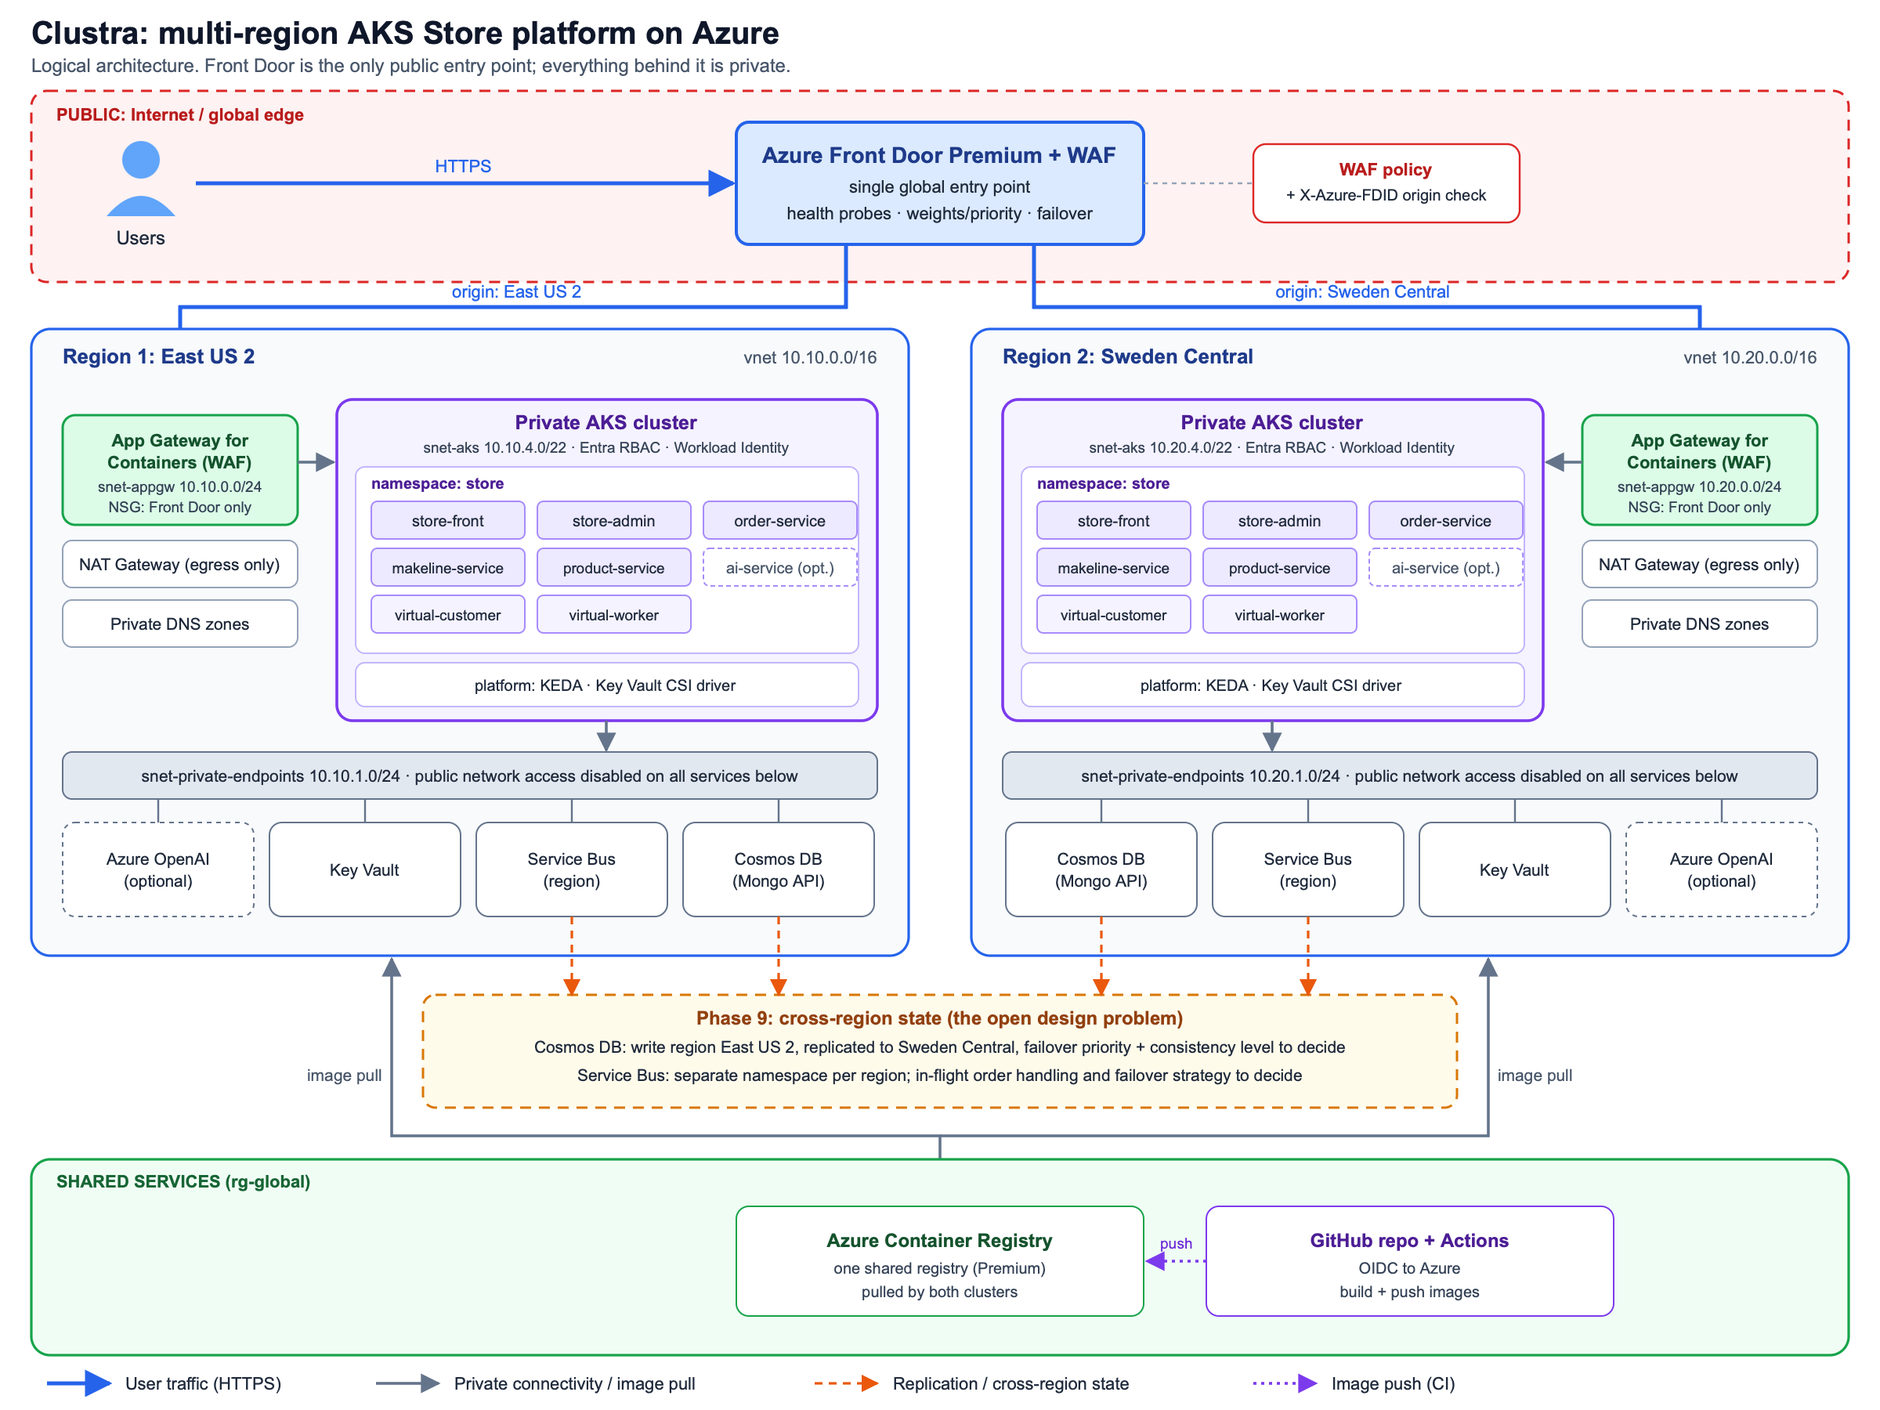
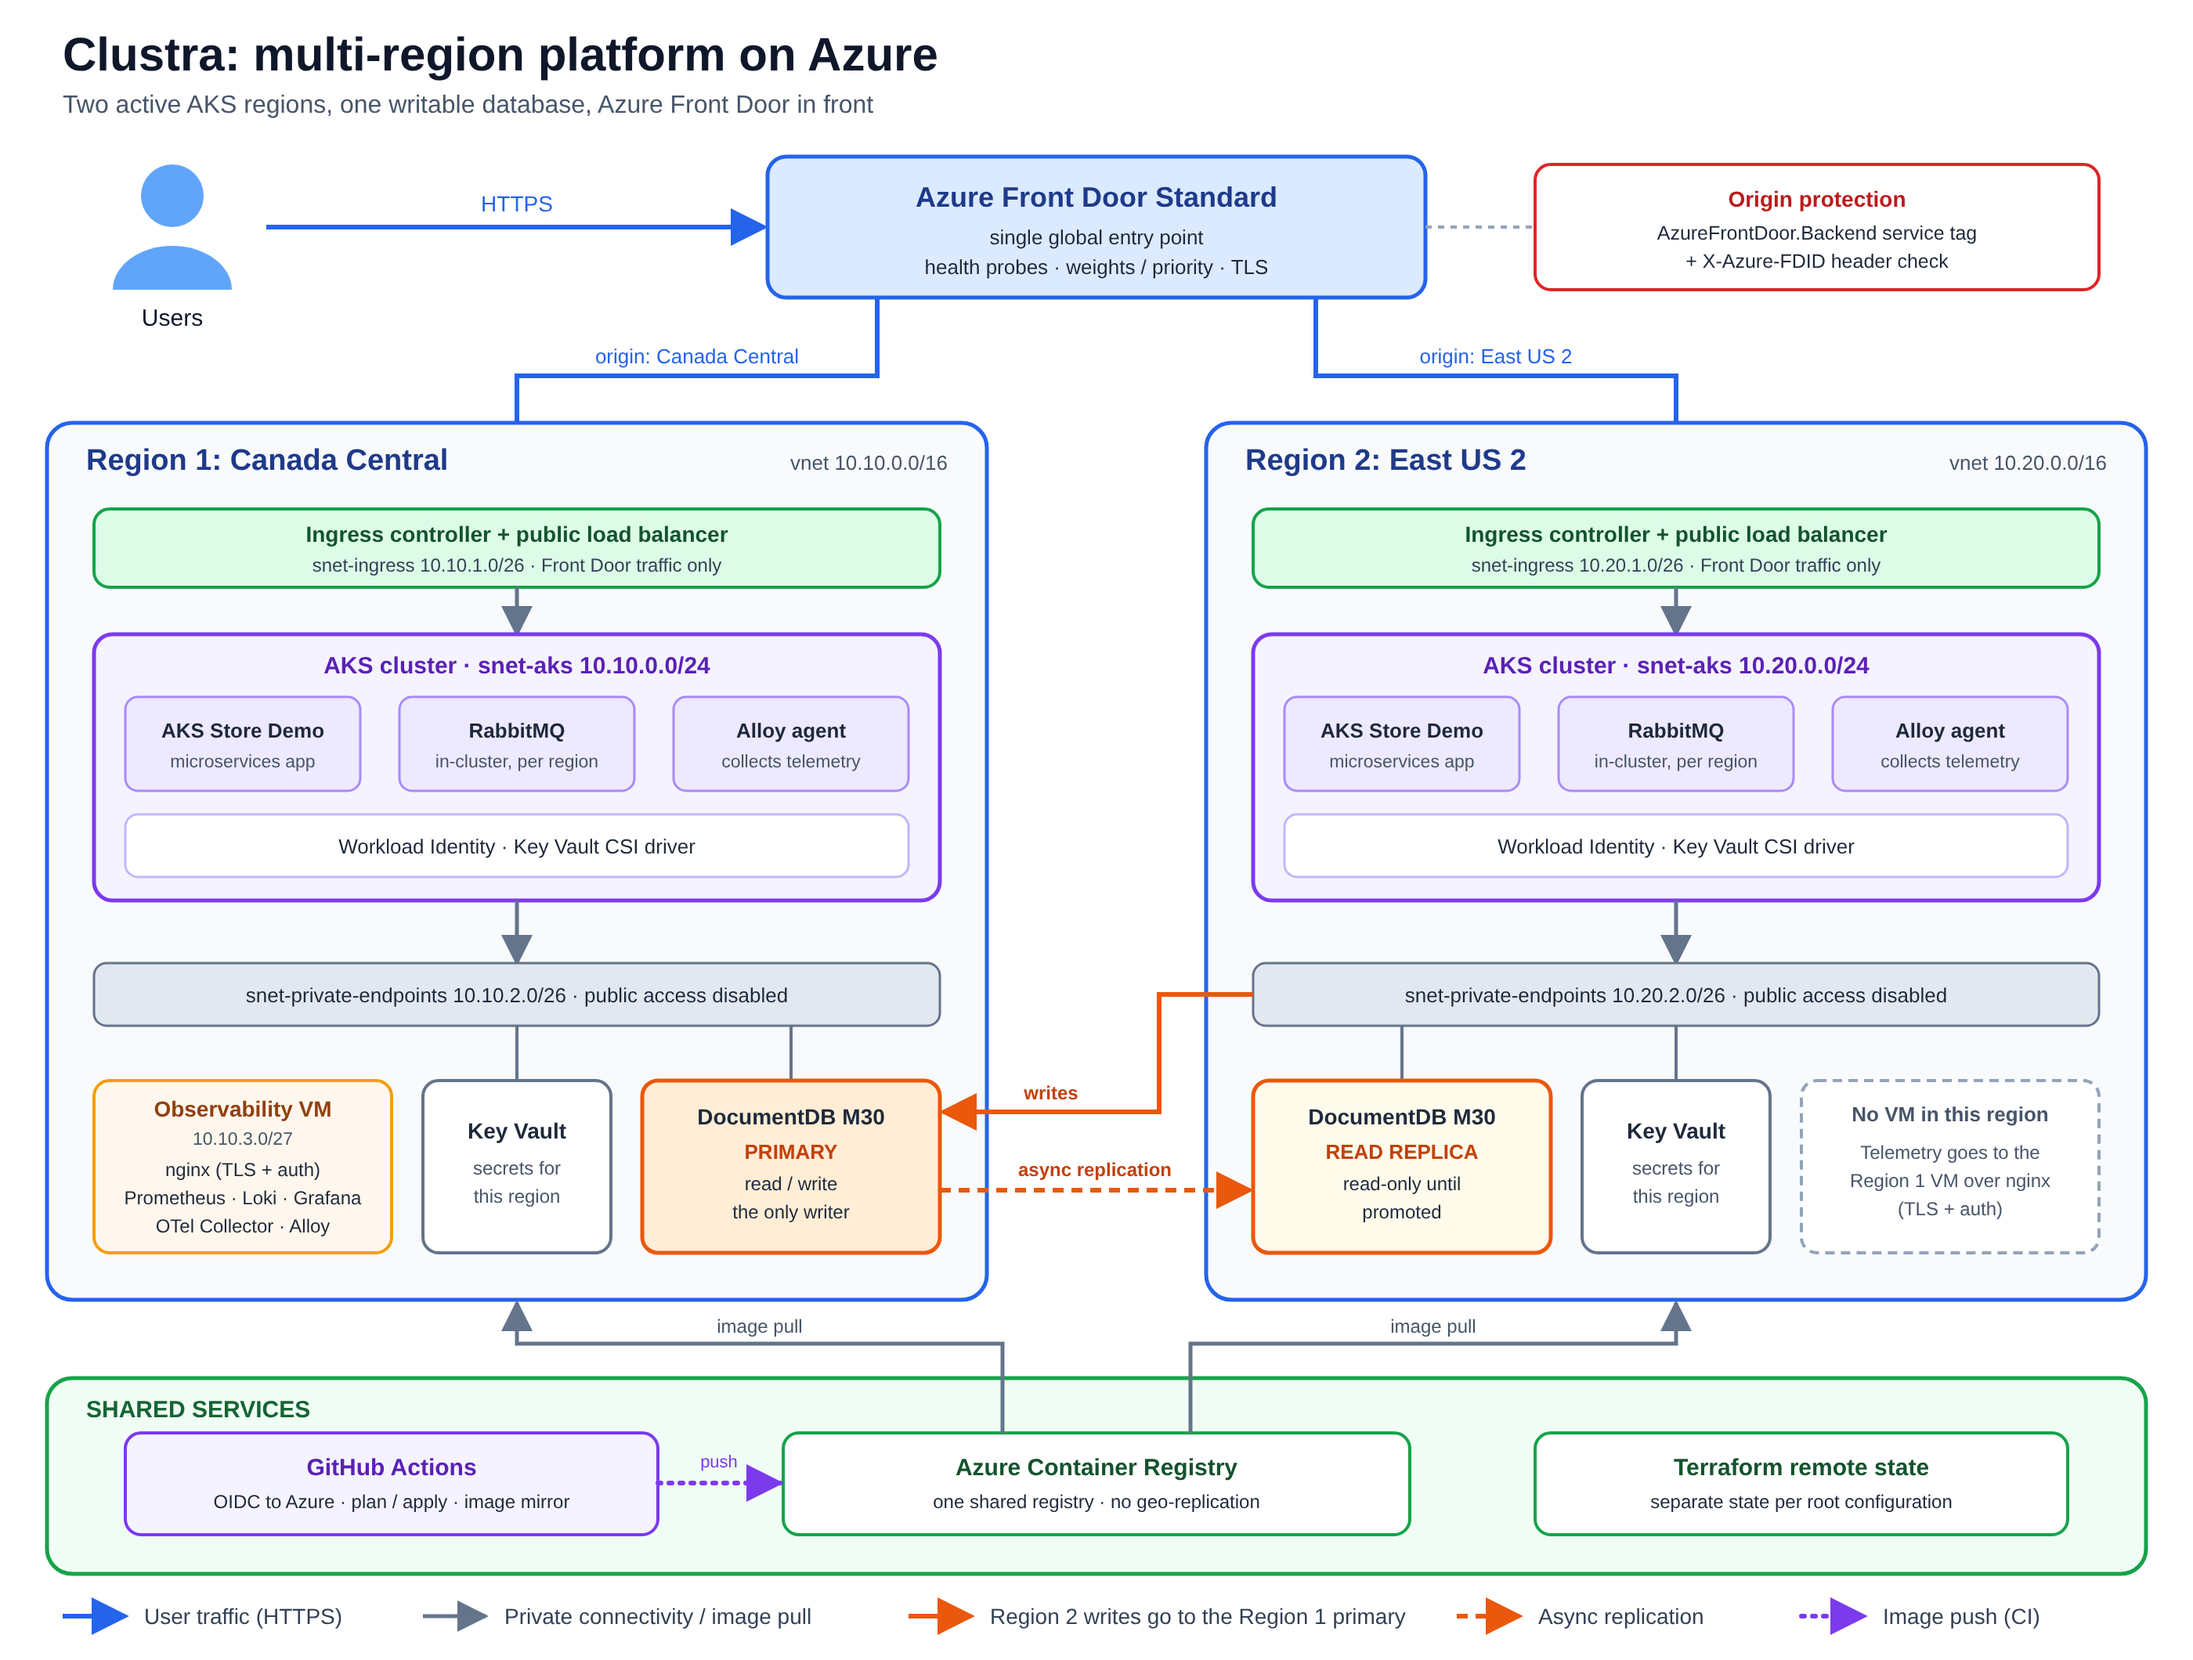
Add VNet and subnet address plan (#61)

Changed region(s): [[0.0, 0.0, 1.0, 0.9956], [0.3125, 0.8711, 0.375, 0.9022]]

diff --git a/docs/networking/address-plan.md b/docs/networking/address-plan.md
@@ -1,0 +1,66 @@
+# Network address plan
+
+- **Status:** Proposed (confirm the network model when Phase 2 is built)
+- **Date:** 2026-11-20
+- **Related:** [ADR 0001](../decisions/0001-region-selection.md), PROJECT.md (Regional networking), PLAN.md (Phases 0 and 2)
+
+## Principles
+
+1. All ranges come from the private `10.0.0.0/8` space and **nothing overlaps**: VNets, pod ranges and service ranges are all unique. The VNets are not peered initially, but unique ranges mean peering can be added later without renumbering.
+2. Only the two production regions are deployed. Staging ranges are **reserved only**; staging is not deployed.
+3. AKS uses **Azure CNI Overlay**: nodes get IPs from the VNet subnet, pods get IPs from a separate pod range.
+4. Azure reserves 5 addresses in every subnet. "Usable" below already excludes them.
+
+## VNet address spaces
+
+| Environment | Region | VNet range | Status |
+|---|---|---|---|
+| Production, region-1 | Canada Central | `10.10.0.0/16` | Deployed in Phase 2 |
+| Production, region-2 | East US 2 | `10.20.0.0/16` | Deployed in Phase 2 |
+| Staging, region-1 | Canada Central (assumed to mirror prod) | `10.30.0.0/16` | Reserved, not deployed |
+| Staging, region-2 | East US 2 (assumed to mirror prod) | `10.40.0.0/16` | Reserved, not deployed |
+
+`10.50.0.0/16` to `10.99.255.255` is kept free for future use.
+
+## Subnets
+
+Same layout in every VNet.
+
+| Subnet | Purpose | Prod region-1 | Prod region-2 | Staging region-1 | Staging region-2 | Usable IPs |
+|---|---|---|---|---|---|---|
+| `snet-aks` | AKS node pools | `10.10.0.0/24` | `10.20.0.0/24` | `10.30.0.0/24` | `10.40.0.0/24` | 251 |
+| `snet-ingress` | Ingress / internal load balancer frontends | `10.10.1.0/26` | `10.20.1.0/26` | `10.30.1.0/26` | `10.40.1.0/26` | 59 |
+| `snet-private-endpoints` | Private endpoints (DocumentDB primary and replica, Key Vault) | `10.10.2.0/26` | `10.20.2.0/26` | `10.30.2.0/26` | `10.40.2.0/26` | 59 |
+| `snet-observability` | Observability VM (region-1 only; reserved elsewhere) | `10.10.3.0/27` | `10.20.3.0/27` | `10.30.3.0/27` | `10.40.3.0/27` | 27 |
+| (reserved) | Future use | `10.10.4.0/22` | `10.20.4.0/22` | `10.30.4.0/22` | `10.40.4.0/22` | 1019 |
+
+Notes:
+- `snet-observability` is only created in prod region-1. The prod region-2 range is reserved but unused.
+- All staging subnets are reserved only.
+
+## AKS cluster ranges (Azure CNI Overlay)
+
+| Cluster | Node subnet | Pod CIDR | Service CIDR | DNS service IP |
+|---|---|---|---|---|
+| Prod region-1 | `10.10.0.0/24` | `10.100.0.0/16` | `10.200.0.0/16` | `10.200.0.10` |
+| Prod region-2 | `10.20.0.0/24` | `10.101.0.0/16` | `10.201.0.0/16` | `10.201.0.10` |
+| Staging region-1 (reserved) | `10.30.0.0/24` | `10.102.0.0/16` | `10.202.0.0/16` | `10.202.0.10` |
+| Staging region-2 (reserved) | `10.40.0.0/24` | `10.103.0.0/16` | `10.203.0.0/16` | `10.203.0.10` |
+
+- The pod CIDR must not overlap the node subnet or any connected network. Each node takes a `/24` slice of its cluster's pod CIDR.
+- Overlay allows the same pod range to be reused across clusters. We use unique ranges anyway to keep peering possible later.
+
+## Sizing rationale
+
+- **`snet-aks` /24:** far more than the planned node count, leaving room for upgrade surge nodes and growth without renumbering.
+- **`snet-private-endpoints` /26:** each private endpoint uses one address; this covers both DocumentDB clusters, Key Vault and future endpoints.
+- **`snet-observability` /27:** a single VM today, with room for supporting resources.
+- **Reserved /22:** unallocated space in each VNet for future subnets.
+
+## Validation
+
+No overlaps among the 12 top-level ranges (4 VNets, 4 pod CIDRs, 4 service CIDRs), every subnet lies within its VNet, and no two subnets in a VNet overlap.
+
+## Open items
+
+- Confirm Azure CNI Overlay as the AKS network model when Phase 2 and Phase 4 are built. A pod-subnet model would need much larger subnets.
